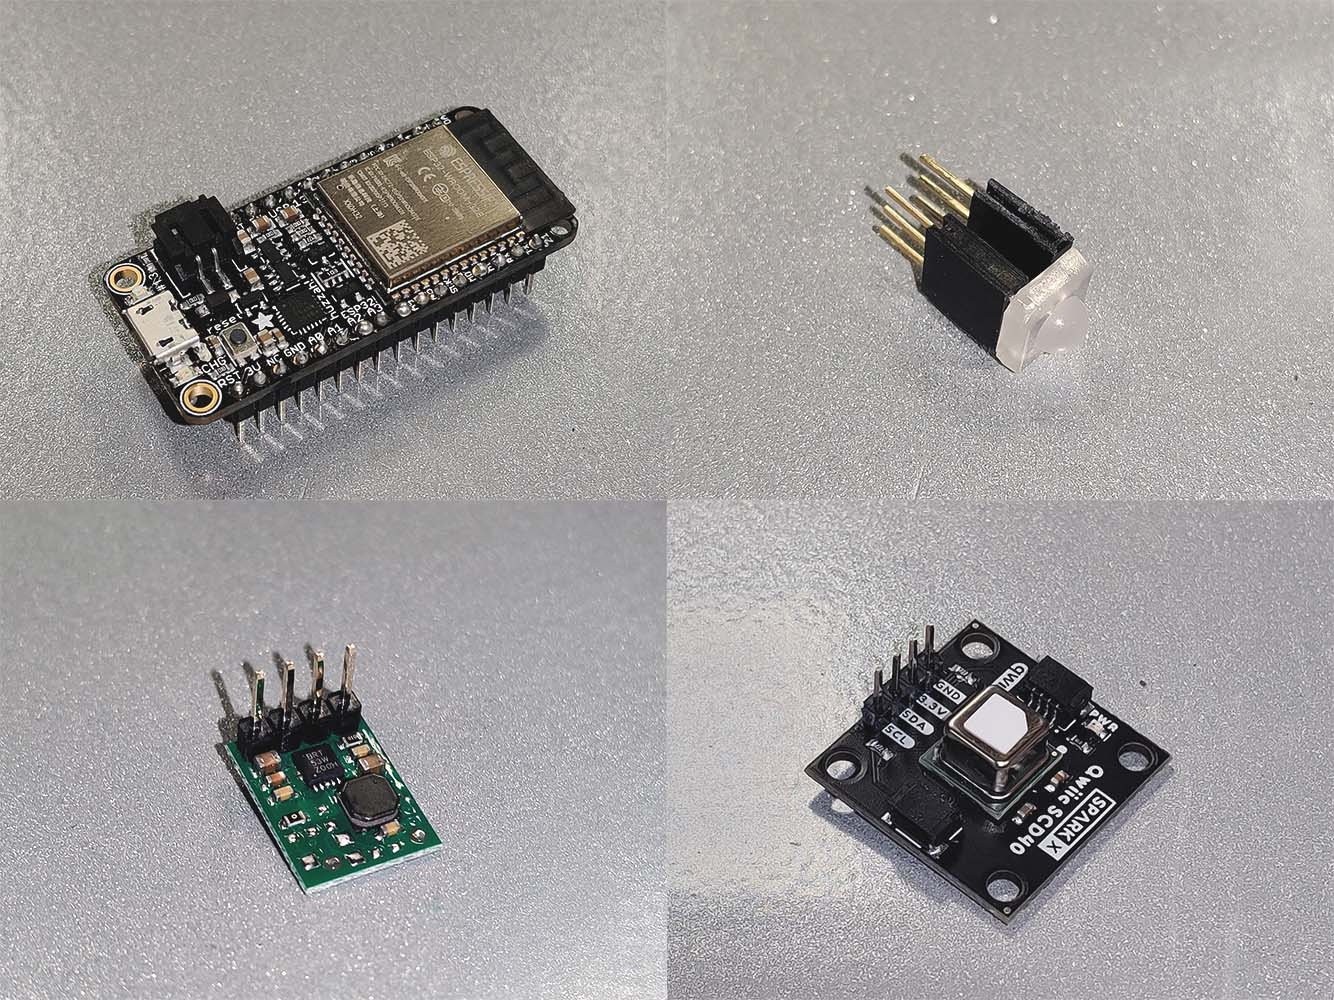
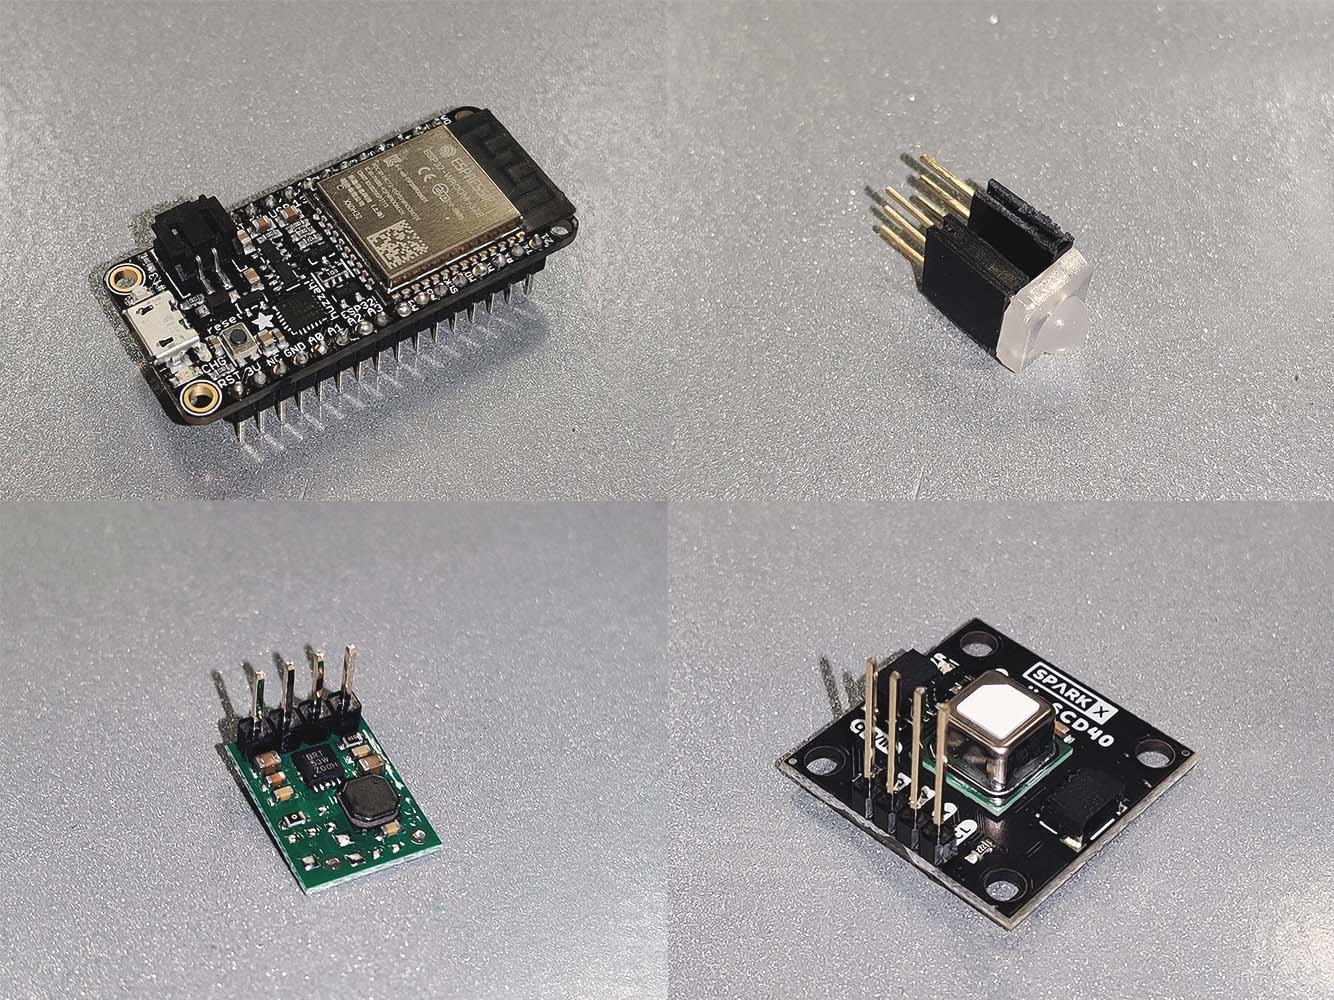
added assemblage documentation

diff --git a/Portable air quality monitor/README.md b/Portable air quality monitor/README.md
@@ -27,7 +27,7 @@ This documentation details the specifications and steps necessary to build **myA
     - CO2 carbon dioxide
     - Thermal comfort: temperature and humidity
 - **Portable**
-    - Weighs less than ...
+    - Light weight (174 gram)
     - Full-day battery life, multiple-day if further optimized
     - Can be carried around on a backbag or other personal items with a hook / clip
 - **Communicating with an iOS/watchOS app through Bluetooth Low-Energy (BLE)**
@@ -186,10 +186,17 @@ In addition to the female recepticles that will connect to the electronic compon
 *2D and 3D renders of the PCB with SMT components and female recepticles soldered in place*
   
 ### 3.2. Custom 3D-printed enclosure
-The enclosure is designed in **Fusion 360**. The Fusion 360 project can be found [here](), in case any modification is needed.
+The enclosure is designed in **Fusion 360**. The Fusion 360 project can be found [here](), in case any modification is needed. As it features some complicated features, SLA printing was used to ensure maximum accuracy.
   
 <p align="center">
-  <img width="768px" src="images/renders/enclosure.png" alt="Render of battery compartment">
+  <img width="768px" src="images/renders/enclosure.png" alt="Render of the enclosure">
+  <br/><i>3D render of the enclosure</i>
+</p>
+  
+  
+<p align="center">
+  <img width="768px" src="images/photos/3d-printed-enclosure.jpg" alt="3D printed enclosure photo">
+  <br/><i>All the components of the enlcosure after 3D printed</i>
 </p>
   
 #### Some design choices:
@@ -223,19 +230,21 @@ The enclosure is designed in **Fusion 360**. The Fusion 360 project can be found
     <br/><i>Some perforated slits to supply fresh air</i>
 </p>
   
-
+  
 <p align="center">
-  <img width="512px" src="images/photos/..." alt="Photo of the slits for ventilation">
+  <img width="512px" src="images/electronics/slits-with-mesh.jpg" alt="Photo of the slits for ventilation, fitted with some plastic mesh to prevent dust from getting inside">
 <br/><i>Optionally, some plastic mesh can be used to cover the slits to avoid big debris/dust particles to enter the interior</i>
 </p>
   
 ### 3.3. Putting everything together
-As explained before, the design objective of the portable air quality monitor is modular and reusable. The PCB board already comes installed with the female recepticles; therefore, we only need to solder male staight headers into *most* of the sensors:
+As explained before, the design objective of the portable air quality monitor is modular and reusable. The PCB board already comes installed with the female recepticles; therefore, we only need to solder male pin headers (2.54mm/0.1in) into *most* of the sensors:
   
 <p align="center">
   <img width="768px" src="images/electronics/components-with-male-headers.jpg" alt="Components with the male headers soldered on">
-  <br/><i>ESP32, RGB LED, Pololu 5V Step-up voltage regulator, and SCD40 CO2 sensor (left to right, top to bottom)</i>
+  <br/><i>ESP32, RGB LED, Pololu 5V Step-up voltage regulator, and SCD40 CO2 sensor (left to right, top to bottom).</i>
 </p>
+  
+The SCD40 sensor must be soldered into a [LONG (TALL) male header](https://www.sparkfun.com/products/10158) to create enough clearance between itself and the SPS30 sensor fitted underneath.
   
   
 Meanwhile, the SPS30 particulate matter sensor purchased from SparkFun comes with a JST-ZHR Cable - 5-pin x 1.5mm Pitch to Breadboard connector (spare can be found [here](https://www.sparkfun.com/products/15108)). As a work-around, for our PCB board, we trim the 5 wires and solder them into a male header so that they can be plugged into the corresponding female recepticles:
@@ -244,44 +253,66 @@ Meanwhile, the SPS30 particulate matter sensor purchased from SparkFun comes wit
   <img width="512px" src="images/electronics/sps30-with-male-header.jpg" alt="SPS30 sensor with its connector wires soldered into a male header">
 </p>
   
-The RGB LED and the SCD40 is connected to another set of female recepticles before being connected to the recepticles soldered on the PCB. The reason is to create clearance for the SCD40 sensor from the SPS30 sensor underneath, while for the LED, the second set of female recepticles brings it closer to the front cover of the enclosure. This is how the board looks like after everything is plugged into:
+
+The RGB LED is connected to another set of female recepticles before being connected to the recepticles soldered on the PCB. The reason is to brings it closer to the front cover of the enclosure. This is how the board looks like after everything is plugged into:
   
 <p align="center">
   <img width="768px" src="images/electronics/pcb-with-electronics-assembled.jpg" alt="PCB with all electronic components plugged in">
 </p>
   
+
 The red (positive) wire of the Li-Po battery is then soldered into the switch like such:
   
 <p align="center">
   <img width="768px" src="images/electronics/battery-with-switch.jpg" alt="Battery with slider switch">
 </p>
   
-The slider switch can then be mounted onto the back of the 3D-printed enclosure with two M1.6 x 6mm nuts, together with the battery in the back compartment:
+  
+The slider switch can then be mounted onto the back of the 3D-printed enclosure with two M1.6 x 6mm nuts. The battery is then placed in the back compartmemt. The back compartment is designed to be bigger than the nominal size of the battery so that the battery has some room to expand. A cushioned mesh can be added to fill in the space between the battery and the back panel:
   
 <p align="center">
-  <img width="768px" src="images/photos/..." alt="Battery with slider switch mounted on the back of the enclosure">
+  <img width="768px" src="images/electronics/back-side.jpg" alt="Battery with slider switch mounted on the back of the enclosure, with the battery in the back compartment, and some cushioned mesh to allow the battery to expand">
 </p>
-
-Similarly, the motherboard PCB can be secured onto the front of the 3D-printed enclosure with four M1.6 x 6mm nuts, with the SPS30 sensor fits snuggly in its own comparment:
+  
+  
+Next, the 3D-printed clip can be held secured onto the back panel with a pair of M1.6 nuts and bolts. The back panel can then be mounted with four additional M1.6 nuts:
   
 <p align="center">
-  <img width="768px" src="images/photos/..." alt="PCB mounted on the front of the enclosure">
+  <img width="768px" src="images/photos/back-panel-with-clip.jpg" alt="The clip secured onto the back panel">
 </p>
   
-Afterwards, the front cover can be mounted in place, with four M1.6 x 6mm nuts at each corner, with the LED slightly protrudes into the cutout on the front cover:
-
-![Front cover mounted on the main body enclosure](images/photos/...)
-
-Lastly, the 3D-printed clip can be held secured onto the back cover with a pair of M1.6 nuts and bolts. The back cover can then be mounted with four additional M1.6 nuts:
-
-![Back clip secured onto the back cover](images/photos/...)
+The back panel can be mounted in the main body, with four M1.6 x 6mm nuts at each corner:
   
-![Back cover mounted on the main body enclosure](images/photos/...)
+<p align="center">
+  <img width="768px" src="images/electronics/back-view.jpg" alt="View from the back panel of the portable air quality monitor">
+</p>
   
-Optionally, a ring hook can be installed like below:
+  
+After finishing the back of the portable air quality, we turn to assemble the front. First, the motherboard PCB can be secured onto the front of the 3D-printed enclosure with four M1.6 x 6mm nuts:
+  
+<p align="center">
+  <img width="768px" src="images/electronics/front-side.jpg" alt="PCB mounted on the front of the enclosure">
+</p>
+  
 
-![Ring hook on top of the enclosure](images/photos/...)
+The rest of the electronics can then be added, with the SPS30 sensor fits snuggly in its own comparment like such: 
+  
+<p align="center">
+  <img width="768px" src="images/electronics/sps30-in-enclosure.jpg" alt="SPS30 in the enclosure">
+</p>
+  
+  
+Afterwards, the front cover can be mounted:
 
+<p align="center">
+  <img width="768px" src="images/photos/front-view.jpg" alt="View from the front panel of the portable air quality monitor">
+</p>
+  
+  
+Optionally, a ring hook can be attached like below:
+  
+![Ring hook on top of the enclosure](images/electronics/.jpg)
+  
 ## 4. Software implementation
 The entire Arduino project of the portable air quality monitor can be found [here](https://github.com/myAQM/myAQM/arduino-code).
   
